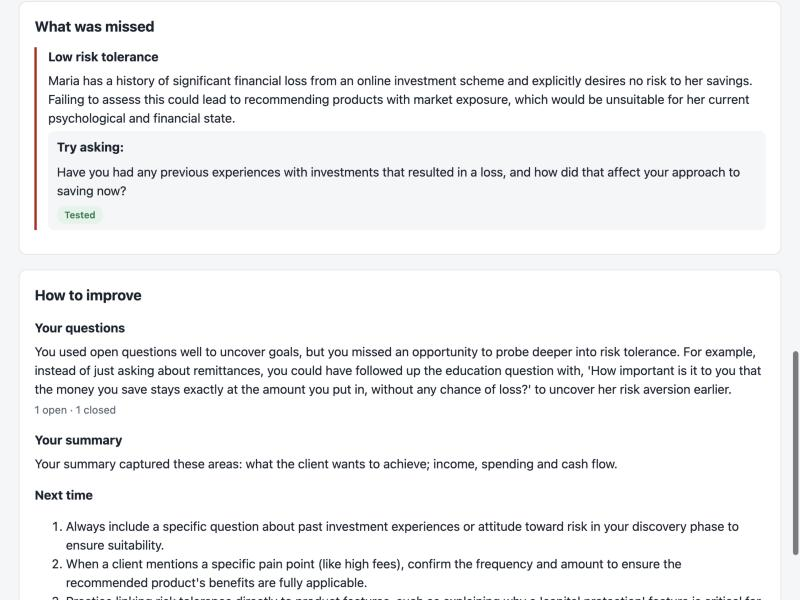
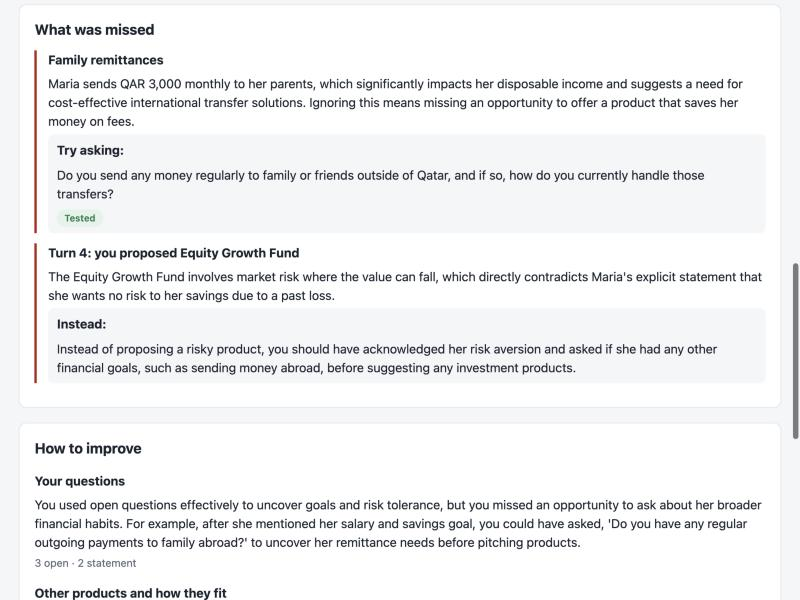
coach: suggest only catalogue products; bound product notes; new feedback screenshot
- The coach is told the bank's full catalogue where it suggests what to do instead, so it no longer invents
  products ("a standard high-yield savings account"). A prompt rule, not a code check.
- product_notes is capped at the number of products: without a bound the local model looped on the list until it ran
  out of tokens and timed out.
- The pitch-mistake heading uses the product's name, not its id ("Equity Growth Fund").
- start.py installs the web interface with --loglevel=error: no engine warnings for test-only packages on newer Node.
- Screenshot 5 and the sample interview re-recorded on this code.
- README: gpt-4.1-mini coach result (7 cases, one run, every first draft clean, $0.015).

Coach eval, local Qwen, k=2: first draft clean 0.857 (the known khalid_partial praise of a pitch, dropped by code),
0 model errors, 0 rules fallbacks.

diff --git a/frontend/src/screens/Feedback.tsx b/frontend/src/screens/Feedback.tsx
@@ -125,7 +125,9 @@ export function Feedback({ session, feedback, onRestart }: Props) {
         {feedback.pitch_mistakes.map((m) => (
           <div key={m.product_id} className="missed-need">
             <h3>
-              Turn {m.turn}: you proposed {readable(m.product_id)}
+              Turn {m.turn}: you proposed{" "}
+              {feedback.products.find((p) => p.id === m.product_id)?.name ??
+                readable(m.product_id)}
             </h3>
             <p>{m.why_unsuitable}</p>
             <p className="try">

diff --git a/frontend/src/App.test.tsx b/frontend/src/App.test.tsx
@@ -257,7 +257,7 @@ describe("feedback", () => {
     ).toBeInTheDocument();
     expect(
       within(area("What was missed")).getByText(
-        "Turn 4: you proposed Equity growth fund",
+        "Turn 4: you proposed Equity Growth Fund",
       ),
     ).toBeInTheDocument();
   });

diff --git a/backend/app/coach.py b/backend/app/coach.py
@@ -193,7 +193,11 @@ def feedback_model(sheet: FactSheet) -> type[BaseModel]:
         went_well=(Annotated[list[point], Field(max_length=3)], ...),
         missed_needs=(list[missed_need] if missed else none_allowed, ...),
         pitch_mistakes=(list[pitch_mistake] if pitched else none_allowed, ...),
-        product_notes=(list[product_note] if product_ids else none_allowed, ...),
+        # capped: without a bound a local model has looped on this list until it ran out of tokens
+        product_notes=(
+            Annotated[list[product_note], Field(max_length=len(product_ids))] if product_ids else none_allowed,
+            ...,
+        ),
         question_feedback=(str, ...),
         next_steps=(Annotated[list[str], Field(min_length=1, max_length=3)], ...),
     )
@@ -220,7 +224,9 @@ def summary_needs(llm: LLM, client: Client, summary: str) -> list[str]:
     return sorted(set(labels.need_ids))
 
 
-def render(prompt: Prompt, sheet: FactSheet, transcript: list[dict], submission: Submission, note: str) -> str:
+def render(
+    prompt: Prompt, sheet: FactSheet, transcript: list[dict], submission: Submission, note: str, catalogue: list[str]
+) -> str:
     c = sheet.client
     needs = []
     for n in sheet.needs:
@@ -259,6 +265,7 @@ def render(prompt: Prompt, sheet: FactSheet, transcript: list[dict], submission:
         client=f"{c.name}, {c.age}, {c.occupation}. {c.background} Came in because: {c.stated_goal}",
         needs="\n".join(needs),
         products="\n".join(products) or "(none)",
+        catalogue=", ".join(catalogue),
         question_stats=stats,
         interview="\n".join(interview),
         submission=f"Summary: {fence(submission.summary) or '(empty)'}\nRecommendations:\n" + "\n".join(recs),
@@ -468,7 +475,14 @@ def coach(content: Content, llm: LLM, state: dict, submission: Submission, check
     draft, kept, problems, unverified, found = None, {}, [], [], []
     for attempt in range(1, MAX_DRAFTS + 1):
         fix = f"\nYour previous feedback had these problems: {'; '.join(problems)}. Fix them.\n" if problems else ""
-        system = render(prompt, sheet, state.get("transcript", []), submission, note + fix)
+        system = render(
+            prompt,
+            sheet,
+            state.get("transcript", []),
+            submission,
+            note + fix,
+            [p.name for p in content.products.values()],
+        )
         try:
             with llm_scope(node="coach", role="coach", prompt=prompt.version, attempt=attempt):
                 draft = llm.chat_json(

diff --git a/start.py b/start.py
@@ -73,7 +73,9 @@ def build_frontend(npm: str) -> None:
     lock, installed, built = front / "package-lock.json", front / "node_modules" / ".package-lock.json", front / "dist"
     if not installed.exists() or lock.stat().st_mtime > installed.stat().st_mtime:
         print("Installing the web interface's packages (first run, a minute or two)...", flush=True)
-        subprocess.run([npm, "--prefix", "frontend", "ci", "--no-audit", "--no-fund"], cwd=ROOT, check=True)
+        subprocess.run(
+            [npm, "--prefix", "frontend", "ci", "--no-audit", "--no-fund", "--loglevel=error"], cwd=ROOT, check=True
+        )
     sources = newest(front / "src", front / "index.html", front / "vite.config.ts", lock)
     if not (built / "index.html").exists() or sources > newest(built / "index.html"):
         print("Building the web interface...", flush=True)

diff --git a/backend/tests/test_coach.py b/backend/tests/test_coach.py
@@ -277,3 +277,11 @@ def test_a_next_step_citing_a_turn_that_does_not_exist_is_dropped(model):
     drafts += [{**GOOD, "next_steps": steps}] * 2
     feedback = coach(load_content(), llm, STATE, SUBMISSION)
     assert feedback.next_steps == [steps[0], steps[2]]
+
+
+def test_the_coach_sees_the_whole_catalogue(model):
+    llm, drafts, prompts = model
+    drafts.append(GOOD)
+    coach(load_content(), llm, STATE, SUBMISSION)
+    offered = prompts[0].split("name only one the bank offers:")[1].split("\n")[0]
+    assert "Education Savings Plan" in offered and "Global Transfer Account" in offered  # not Khalid's products

diff --git a/docs/SAMPLE_INTERVIEW.md b/docs/SAMPLE_INTERVIEW.md
@@ -7,22 +7,22 @@ A real session, recorded through the API on 25 November 2026 with `Qwen3.6-35B-A
 
 ## Conversation
 
-**Maria:** Good morning. Thank you for seeing me. I am here because I would like to open a savings account.
+**Maria:** Good morning. Yes, I would like to open a savings account, please. I hope you can help me with that.
 
 **Student (1):** Good morning Ms Santos, thank you for coming in. What brings you in today?  
-**Maria:** Good morning. I would like to open a savings account.
+**Maria:** I want to open a savings account to start setting aside some money each month. I am hoping to save for my children's future education.
 
 **Student (2):** What are you hoping to use these savings for in the future?  
-**Maria:** I want to save for my children's university education.
+**Maria:** I want to pay for both children's university studies, starting in about 9 years.
 
 **Student (3):** How do you feel about risk with your savings? Have you ever invested before?  
-**Maria:** I have no desire for risk at all. I lost money in an online investment scheme a few years ago, so I want to keep my savings safe.
+**Maria:** I lost QAR 15,000 in an online investment scheme two years ago, so I now want no risk to my savings. I would prefer something very safe.
 
 **Student (4):** Would our Equity Growth Fund interest you? It has a higher potential long-term return.  
-**Maria:** No, thank you. I need to keep my money completely safe because I lost some savings in an investment scheme before.
+**Maria:** No, that would not be suitable for me because I have lost money in investments before and now want no risk to my savings. I prefer something very safe.
 
 **Student (5):** What about the Education Savings Plan? It matures on a date you choose, for school or university fees.  
-**Maria:** That sounds very helpful for my goal. Could you tell me more about how it works?
+**Maria:** That sounds good, as long as it is very safe and does not carry any risk. Can you tell me more about how it works?
 
 ## Student's summary
 
@@ -38,45 +38,45 @@ Maria wants to save for her two children's university studies, starting in about
 
 | Need | Result | Fact |
 |---|---|---|
-| Education goal | Uncovered (turn 2) | She wants to pay for both children's university studies, starting in about 9 years. |
+| Education goal | Uncovered (turn 1) | She wants to pay for both children's university studies, starting in about 9 years. |
 | Family remittances | Missed | She sends QAR 3,000 every month to her parents in Manila and pays high transfer fees. |
 | Low risk tolerance | Uncovered (turn 3) | She lost QAR 15,000 in an online investment scheme two years ago and now wants no risk to her savings. |
 
 ### What went well
 
-- Turn 2: “What are you hoping to use these savings for in the future?”. This open-ended question successfully uncovered the client's primary goal of funding her children's university education, which is essential for selecting the right long-term savings vehicle.
-- Turn 3: “How do you feel about risk with your savings? Have you ever invested before?”. By asking about risk tolerance and past experience, you correctly identified that the client has a low risk tolerance due to a previous loss, which is a critical factor in product suitability.
-- Turn 5: “What about the Education Savings Plan? It matures on a date you choose, for school or university fees.”. You recommended the Education Savings Plan, which is suitable because it aligns with her specific goal and her need for capital protection.
+- Turn 1: “Good morning Ms Santos, thank you for coming in. What brings you in today?”. This open-ended question allowed the client to state her primary goal (education savings) immediately, setting a clear direction for the conversation.
+- Turn 2: “What are you hoping to use these savings for in the future?”. This follow-up question successfully uncovered the specific timeline (9 years) and purpose (university studies), which is critical for selecting the right savings vehicle.
+- Turn 3: “How do you feel about risk with your savings? Have you ever invested before?”. This question effectively uncovered the client's low risk tolerance and past negative experience, ensuring that high-risk products were not recommended.
 
 Your recommendations that fit:
 
 **Education Savings Plan**: Suitable. Built to pay school or university fees on a chosen date. The amount paid in cannot fall.  
-Coach: Suitable: This plan is built to pay school or university fees on a chosen date, and the amount paid in cannot fall, which matches her goal and risk profile.
+Coach: Suitable: This plan is built to pay school or university fees on a chosen date, and the amount paid in cannot fall, aligning perfectly with Maria's goal and risk profile.
 
 ### What was missed
 
-**Family remittances.** The client sends significant monthly funds to her family abroad. Ignoring this means missing an opportunity to offer a product that reduces her transfer fees and improves her overall financial efficiency.  
-Try asking: “Do you currently send any money regularly to family or friends outside of Qatar?”
+**Family remittances.** The client sends QAR 3,000 monthly to her parents, which significantly impacts her disposable income and suggests a need for cost-effective international transfer solutions that were not addressed.  
+Try asking: “Do you currently send any money regularly to family or friends outside of Qatar, and if so, how do you handle the transfer fees?”
 
-**Turn 4: you proposed Equity Growth Fund.** The Equity Growth Fund involves market risk, meaning the value can fall. This directly contradicts the client's explicit statement that she wants no risk to her savings after a previous loss.  
-Instead: Instead of proposing a risky product, you should have acknowledged her risk aversion and focused on capital-protected options like the Education Savings Plan or a standard high-yield savings account.
+**Turn 4: you proposed Equity Growth Fund.** The Equity Growth Fund involves market risk where the value can fall, which directly contradicts the client's explicit requirement for no risk after her previous financial loss.  
+Instead: Instead of proposing a risky product, you should have acknowledged her risk aversion and steered the conversation toward capital-protected options like the Education Savings Plan or Islamic Savings Account.
 
 ### How to improve
 
-**Your questions.** You used open questions effectively to uncover goals and risk, but you missed an opportunity to ask about her broader financial obligations. For example, asking about regular outgoing payments would have revealed her remittance needs, allowing you to recommend the Global Transfer Account.
+**Your questions.** You used open questions effectively to uncover goals and risk tolerance, but you missed an opportunity to ask about her broader financial commitments. For example, asking about monthly expenses or international transfers would have revealed her remittance needs before recommending products.
 
 **Other products and how they fit:**
 
 **Equity Growth Fund**: Unsuitable. The value can fall, and the client wants no risk to their savings.  
-Coach: Unsuitable: The value can fall, and the client wants no risk to their savings.
+Coach: Unsuitable: The value can fall, and the client wants no risk to her savings, making this product inappropriate for her current financial situation and psychological comfort.
 
 **Global Transfer Account**: Could fit, but first check income, spending and cash flow. Makes regular transfers abroad cheaper.  
-Coach: Check first: This account makes regular transfers abroad cheaper. However, suitability depends on whether the client actually sends money overseas, a need you did not uncover during the interview.
+Coach: Check first: This account makes regular transfers abroad cheaper. However, suitability depends on whether the client has significant remittance needs, which you did not uncover during the interview.
 
 **Your summary.** Your summary captured these areas: what the client wants to achieve; how much risk the client can accept.
 
 **Next time:**
 
-1. At turn 4, you proposed the Equity Growth Fund immediately after she expressed risk aversion; next time, ensure you only recommend products that match the client's stated risk tolerance.
-2. At turn 3, you asked about risk but did not follow up with questions about regular expenses or international transfers; next time, ask about all regular outgoing payments to uncover hidden needs like remittances.
-3. At turn 5, you successfully linked the Education Savings Plan to her goal; next time, continue to validate suitability by confirming how this product fits with her other financial commitments, such as remittances.
+1. At turn 4, you proposed the Equity Growth Fund despite the client stating she wants no risk; next time, ensure you fully acknowledge her risk aversion before suggesting any investment product.
+2. Ask about international money transfers early in the interview to uncover needs like family remittances, which could lead to recommending the Global Transfer Account.
+3. When a client mentions sending money abroad, always inquire about the frequency and amount to assess if a specialized transfer account would benefit them.

diff --git a/backend/prompts/coach.md b/backend/prompts/coach.md
@@ -25,7 +25,7 @@ $note
 What to write. No scores, grades or marks anywhere.
 - "went_well": up to 3 specific things the student did well. For each, give the turn number and an exact quote of the student's own words from that turn (copy them; do not paraphrase), and say why it worked. Never praise proposing or recommending a product whose verdict is unsuitable. If nothing went well, return an empty list.
 - "missed_needs": exactly one item for every need marked MISSED. Say why it matters for this client's product choice, and write one natural question the student could have asked that is clearly about that need's topic. The question must not contain the answer.
-- "pitch_mistakes": exactly one item for every product whose verdict is unsuitable and that was discussed at a turn. Give that turn, say in plain words why the product does not fit this client, and say what the student should have asked or done instead.
+- "pitch_mistakes": exactly one item for every product whose verdict is unsuitable and that was discussed at a turn. Give that turn, say in plain words why the product does not fit this client, and say what the student should have asked or done instead. If you suggest a product there or in "next_steps", name only one the bank offers: $catalogue.
 - "product_notes": exactly one item for every product listed above. Start the comment with the label the student is shown for it, word for word (for example "Check first: ..."), then explain it in plain words, using the reasons given. If the verdict depends on a need the student did not uncover, say what they should have checked first.
 - "question_feedback": one or two sentences on questioning technique (open and closed questions, follow-ups, leading questions), with an example from the interview. A leading question suggests its own answer ("You don't have any debts, right?"); proposing a product is not a leading question.
 - "next_steps": one to three short, practical things to do differently next time. When a step learns from something the student said, name that turn as "turn N" (for example "At turn 4 you proposed X after she said Y; next time ask about Z first"). A step about a need the student never asked about names that need's topic instead.

diff --git a/README.md b/README.md
@@ -141,7 +141,7 @@ Tested on macOS; Windows uses the same steps but has not been tested yet.
 
    <img src="docs/images/4-feedback.jpg" width="620" alt="Feedback, top: the client's hidden needs marked Uncovered or Missed, then What went well with quotes from the interview">
 
-   <img src="docs/images/5-feedback-improve.jpg" width="620" alt="Feedback, lower: What was missed with a tested question to ask, then How to improve with question technique, summary feedback and next steps">
+   <img src="docs/images/5-feedback-improve.jpg" width="620" alt="Feedback, lower: What was missed with a tested question to ask and the unsuitable product proposed at turn 4, then How to improve">
 
 `start.py` was tested in a fresh copy of the project on macOS (setup, settings and start); it uses only Python's
 standard library and the same `npm` and `uv` commands on every system, but was not run on a Windows machine.
@@ -151,9 +151,13 @@ standard library and the same `npm` and `uv` commands on every system, but was n
   provider or a local model, follow [Quick start](#quick-start).
 - OpenAI's newer reasoning models (GPT-5 and later) reject the fixed temperature the classifier and guard use; choose
   one that accepts it, such as `gpt-4.1-mini` or `gpt-4o-mini`.
-- `gpt-4.1-mini` was checked on the classifier only (198 of 225 development cases, one run, through an
-  OpenAI-compatible router): 0.92 correct, every clearly relevant question right; 14 of 15 misses were over-unlocks on
-  nearby questions. Client, guard and coach not evaluated on it; the tested setup is in [Models tested](#models-tested).
+- `gpt-4.1-mini` was checked through an OpenAI-compatible router, one run each:
+  - classifier (198 of 225 development cases): 0.92 correct, every clearly relevant question right; 14 of 15 misses
+    were over-unlocks on nearby questions;
+  - coach (7 cases, 25 Nov): every draft passed the code checks first time, product notes agreed with the rules'
+    verdicts (judged by the same model), coach p50 11 s, $0.015 for the suite.
+
+  Client and guard are not evaluated on it; the tested setup is in [Models tested](#models-tested).
 
 ## Quick start
 
